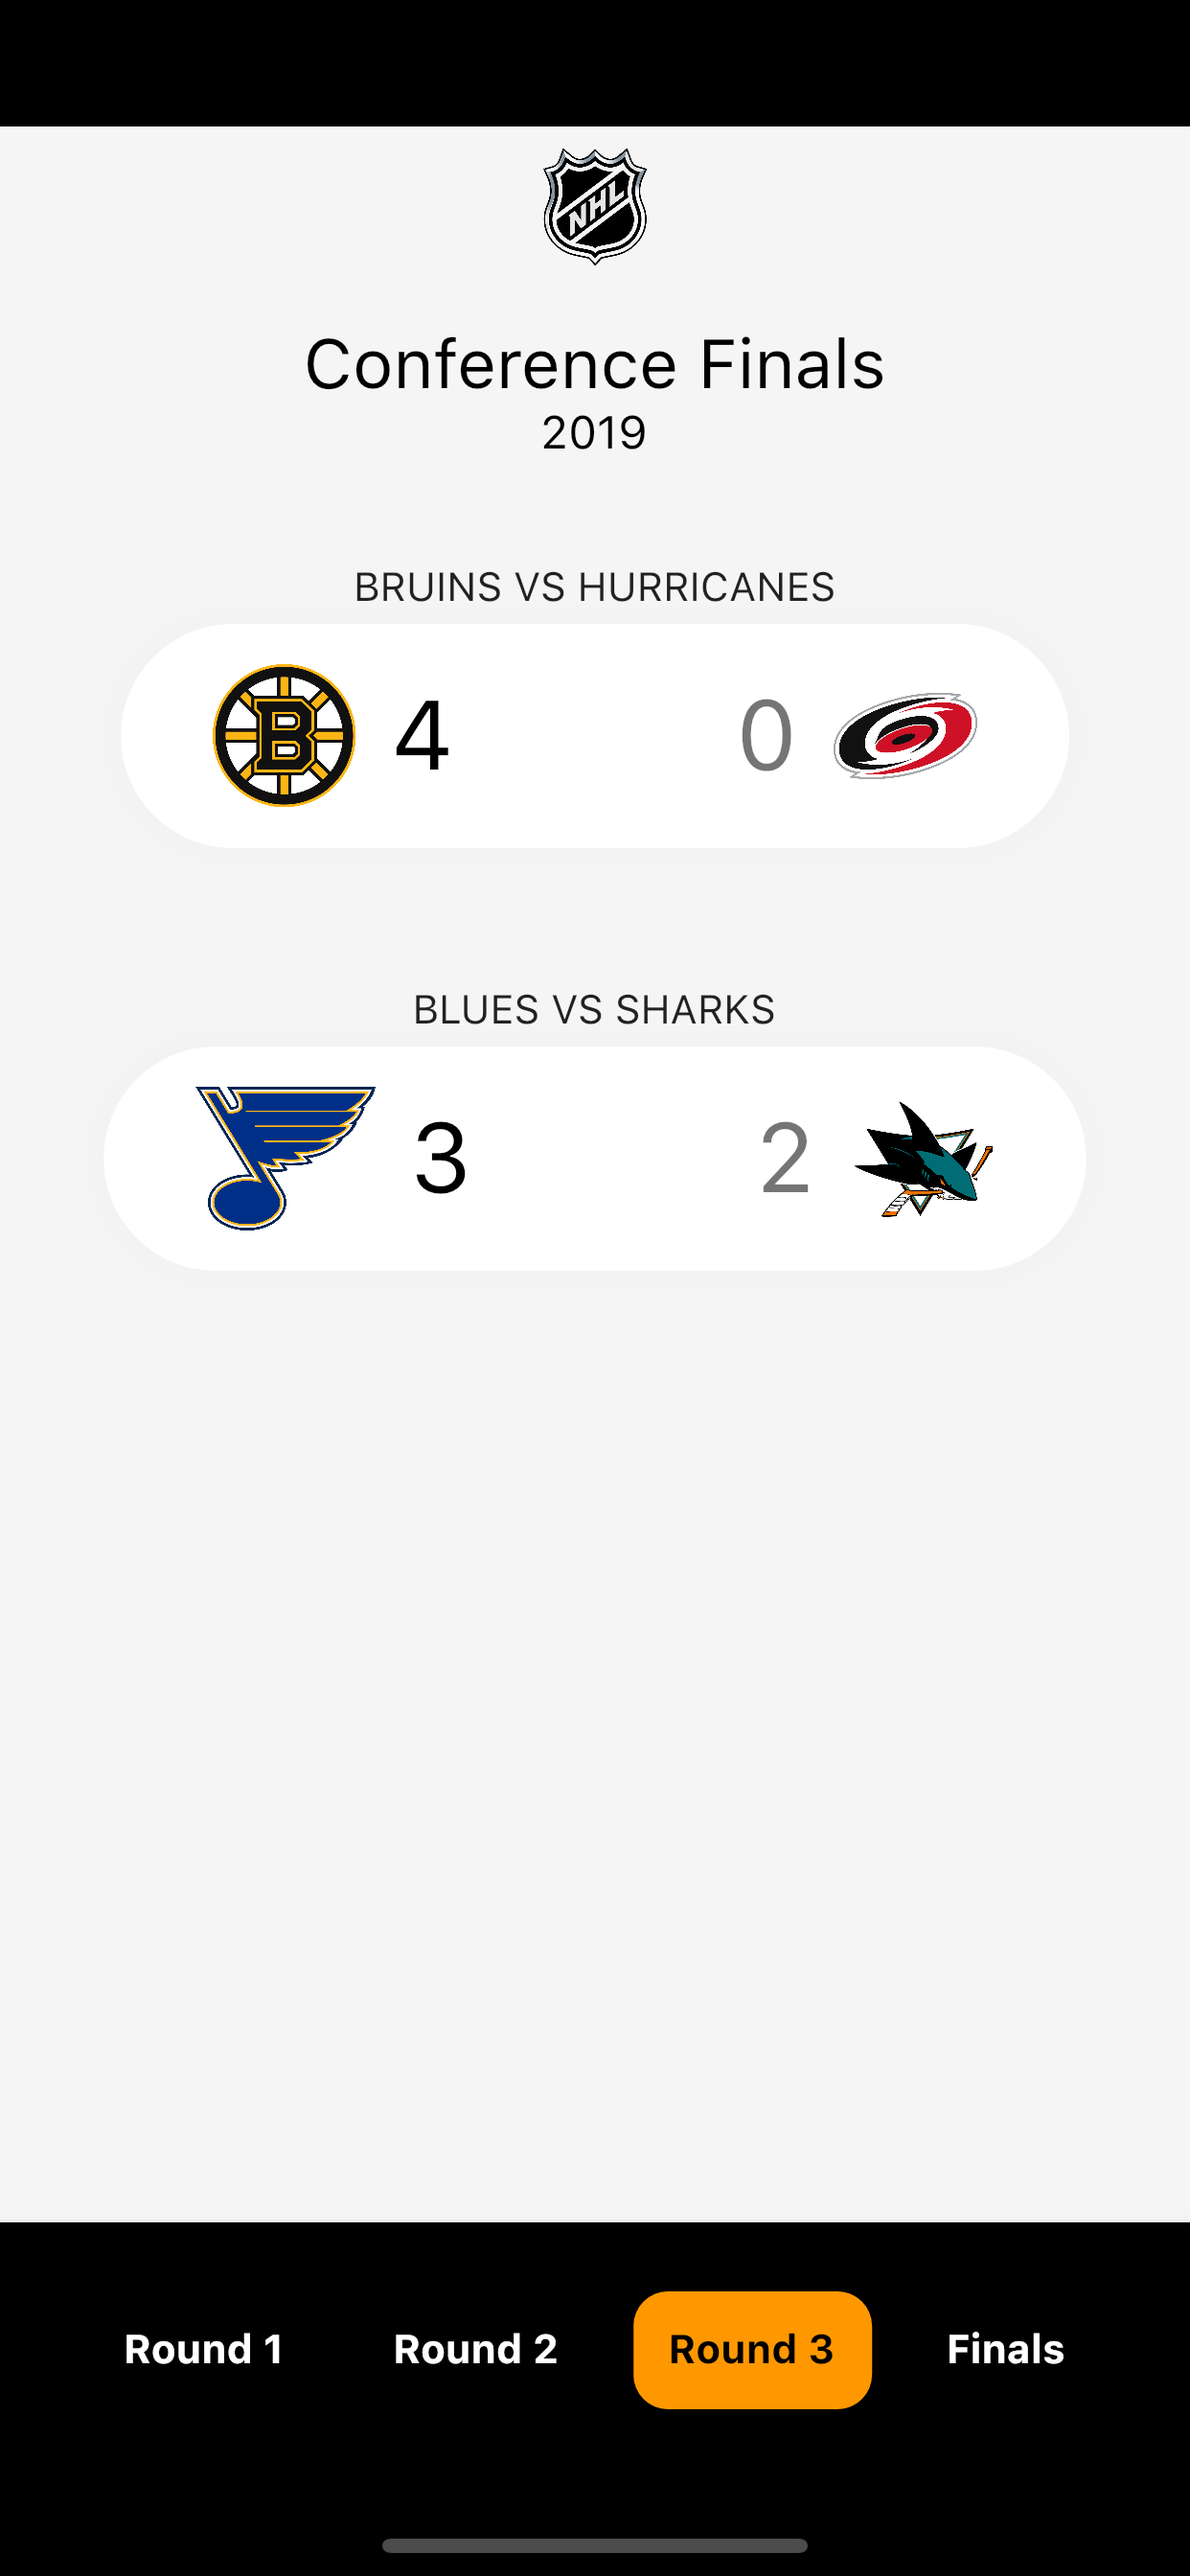
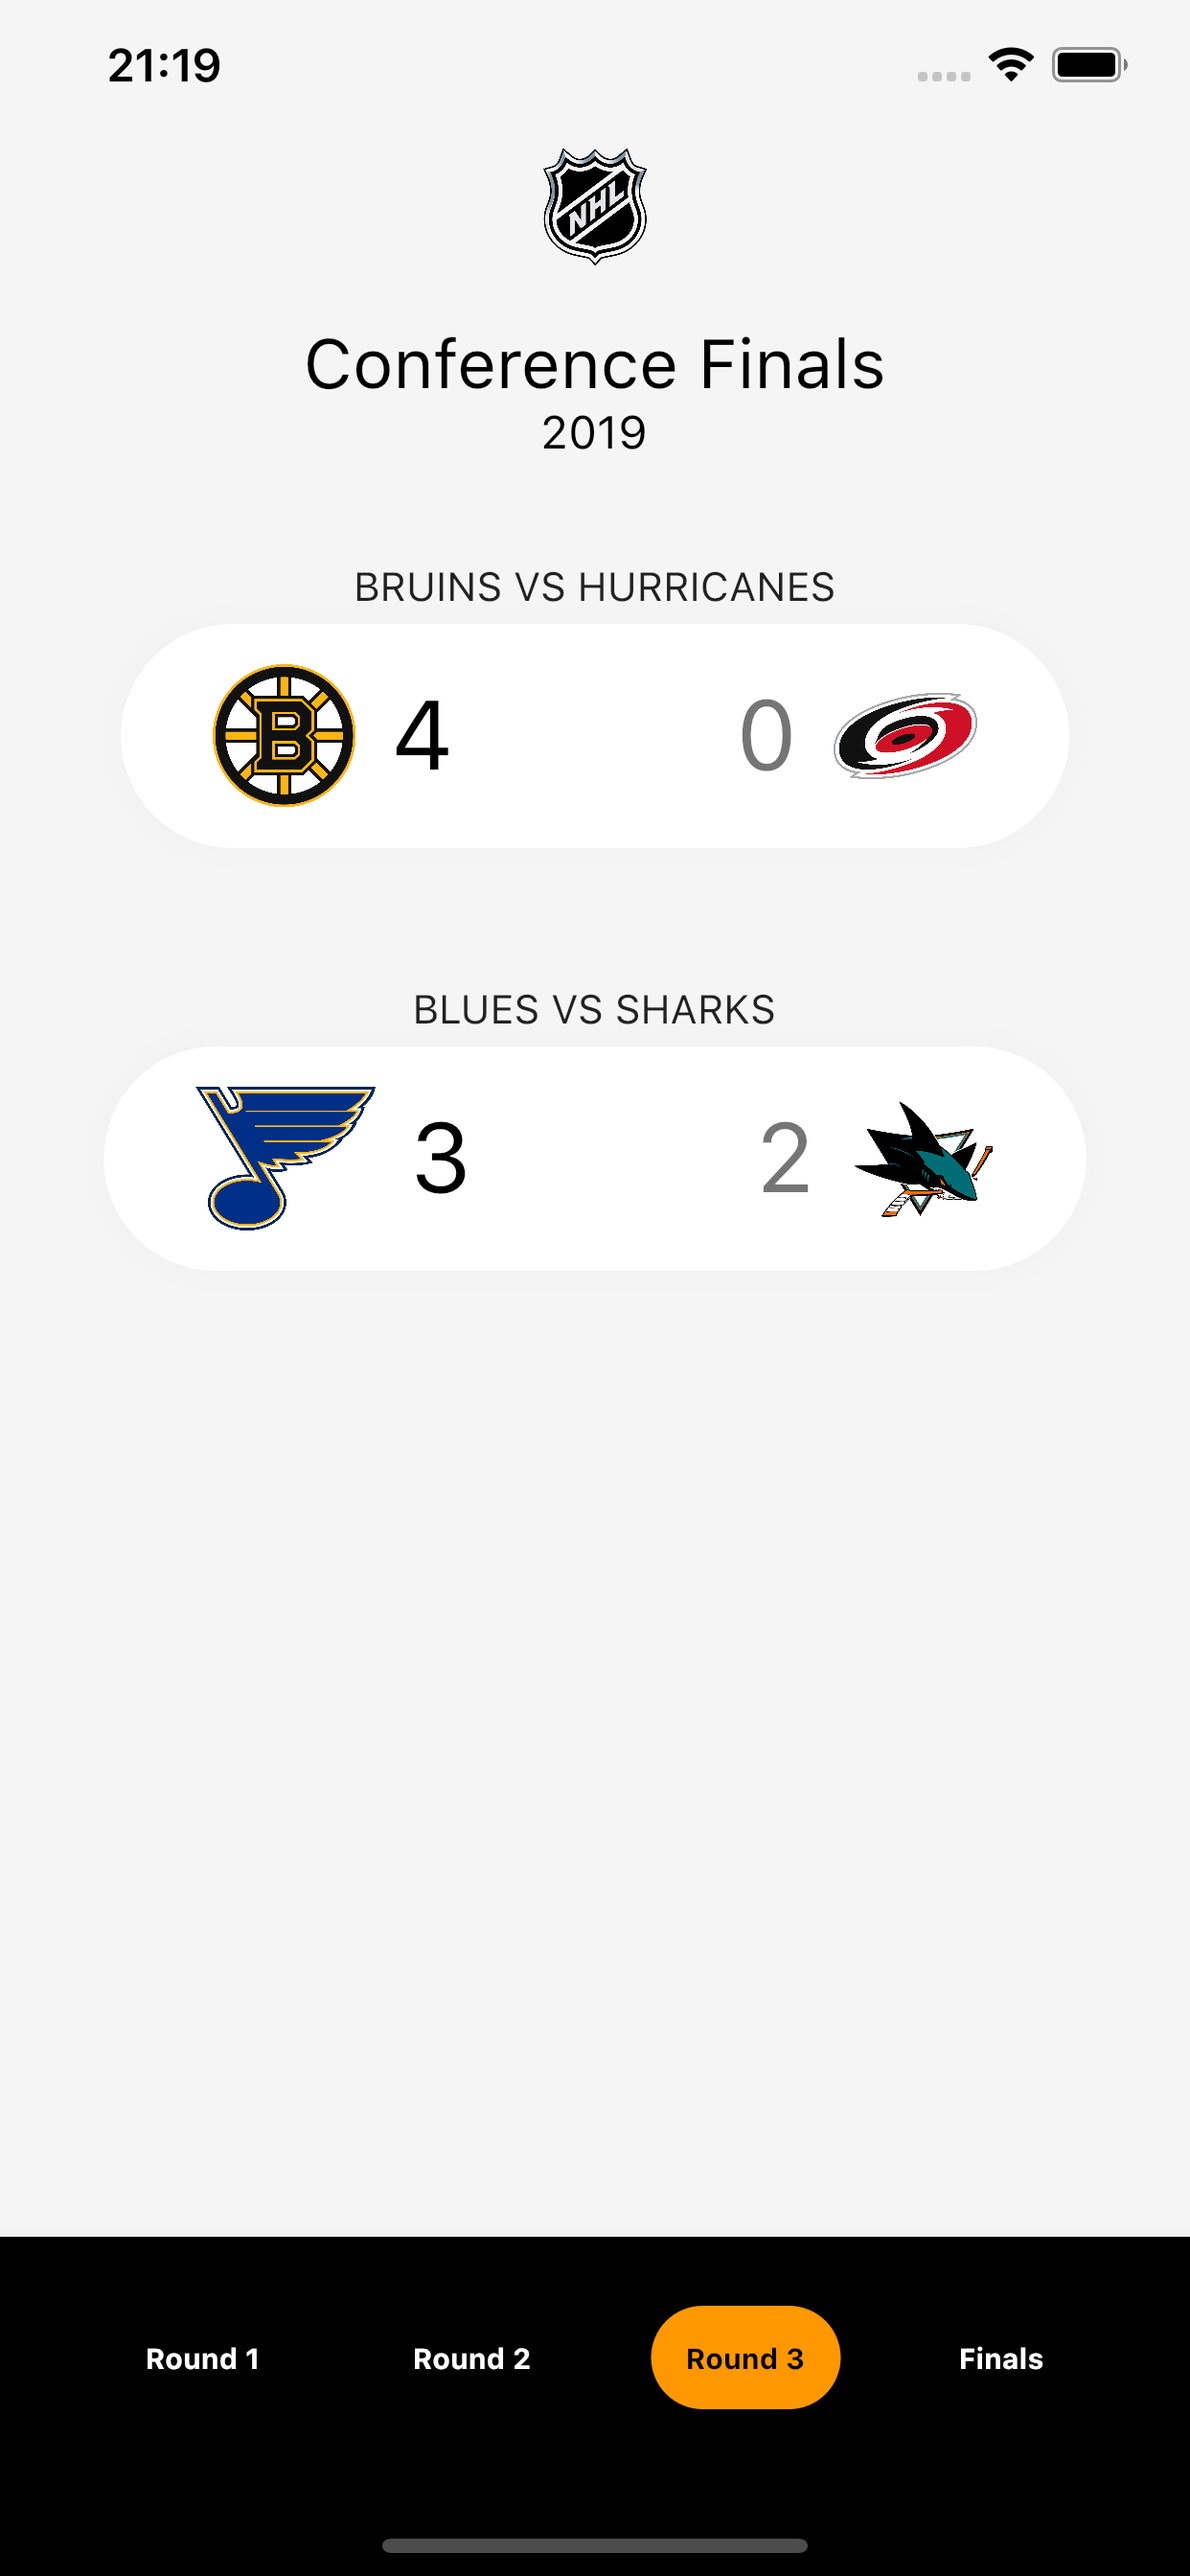
Aesthetic changes

diff --git a/lib/screens/tournament/screen.dart b/lib/screens/tournament/screen.dart
@@ -23,39 +23,43 @@ class _TournamentScreenState extends State<TournamentScreen> {
 
   @override
   Widget build(BuildContext context) {
-    return SafeArea(
-      child: Scaffold(
-        backgroundColor: Color(0xFFf5f5f5),
-        appBar: AppBar(
-          backgroundColor: Colors.transparent,
-          elevation: 0,
-          centerTitle: true,
-          title: Image.asset(nhlLogo, width: 36),
-        ),
-        bottomNavigationBar: BottomAppBar(
-          color: Colors.black,
-          child: Padding(
-            padding: const EdgeInsets.all(24.0),
-            child: Row(
-              mainAxisAlignment: MainAxisAlignment.spaceAround,
-              crossAxisAlignment: CrossAxisAlignment.start,
-              children: _buildNavigation(),
+    return Container(
+      color: Color(0xFFf5f5f5),
+      child: SafeArea(
+        bottom: false,
+        child: Scaffold(
+          backgroundColor: Color(0xFFf5f5f5),
+          appBar: AppBar(
+            backgroundColor: Colors.transparent,
+            elevation: 0,
+            centerTitle: true,
+            title: Image.asset(nhlLogo, width: 36),
+          ),
+          bottomNavigationBar: BottomAppBar(
+            color: Colors.black,
+            child: Padding(
+              padding: const EdgeInsets.all(24.0),
+              child: Row(
+                mainAxisAlignment: MainAxisAlignment.spaceAround,
+                crossAxisAlignment: CrossAxisAlignment.start,
+                children: _buildNavigation(),
+              ),
             ),
           ),
-        ),
-        body: PageView(
-          controller: _pageController,
-          onPageChanged: (page) {
-            setState(() {
-              _currentIndex = page;
-            });
-          },
-          children: <Widget>[
-            RoundsList(round: stanleyCup2019.first),
-            RoundsList(round: stanleyCup2019[1]),
-            RoundsList(round: stanleyCup2019[2]),
-            RoundsList(round: stanleyCup2019[3]),
-          ],
+          body: PageView(
+            controller: _pageController,
+            onPageChanged: (page) {
+              setState(() {
+                _currentIndex = page;
+              });
+            },
+            children: <Widget>[
+              RoundsList(round: stanleyCup2019.first),
+              RoundsList(round: stanleyCup2019[1]),
+              RoundsList(round: stanleyCup2019[2]),
+              RoundsList(round: stanleyCup2019[3]),
+            ],
+          ),
         ),
       ),
     );

diff --git a/lib/screens/tournament/widgets/team_matchup.dart b/lib/screens/tournament/widgets/team_matchup.dart
@@ -38,9 +38,9 @@ class TeamMatchup extends StatelessWidget {
             decoration: BoxDecoration(
               boxShadow: [
                 BoxShadow(
-                  color: Colors.grey.withOpacity(0.05),
-                  spreadRadius: 1,
-                  blurRadius: 8,
+                  color: Colors.grey.withOpacity(0.15),
+                  spreadRadius: 2,
+                  blurRadius: 9,
                   offset: Offset(0, 0),
                 ),
               ],
